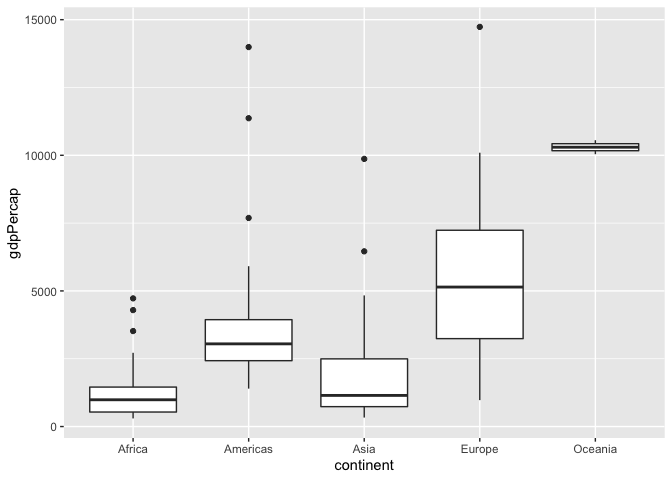
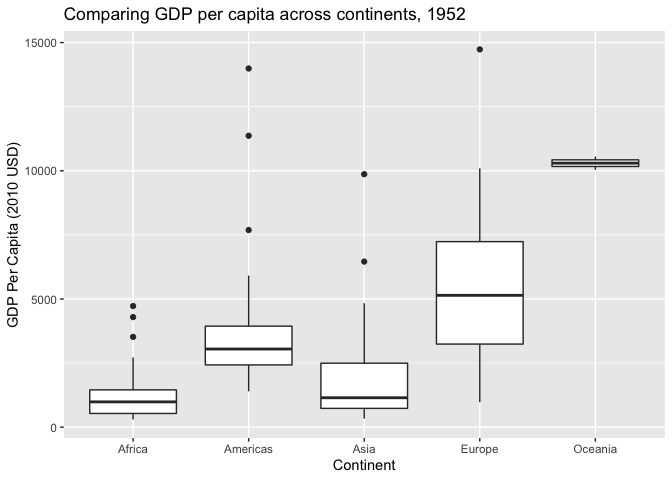
Updated gapminder report

diff --git a/challenges/c04-gapminder-assignment.md b/challenges/c04-gapminder-assignment.md
@@ -229,7 +229,12 @@ gapminder %>%
   filter(year == year_min) %>%
   filter(gdpPercap < 90000) %>% #removing 1 outlier that made it hard to visualize
   ggplot() +
-  geom_boxplot(mapping = aes(continent, gdpPercap))
+  geom_boxplot(mapping = aes(continent, gdpPercap)) +
+  labs(
+  title = "Comparing GDP per capita across continents, 1952",
+  x = "Continent",
+  y = "GDP Per Capita (2010 USD)"
+  )
 ```
 
 ![](c04-gapminder-assignment_files/figure-gfm/q2-task-1.png)<!-- -->
@@ -294,8 +299,6 @@ gapminder %>%
 
 **q3** You should have found at least three outliers in q2. Identify
 those outliers (figure out which countries they are).
-
-*Note*: I realize the reasons for
 
 ``` r
 ## TASK: Identify the outliers from q2
@@ -420,8 +423,9 @@ gapminder %>%
 
 **Observations**
 
-  - Question: Do we see anything weird if we look at outliers from 1952
-    and how their GDP per capita changed over time?
+*Question:* Do we see anything weird if we look at outliers from 1952
+and how their GDP per capita changed over time?
+
   - Kuwait started out extremely high then dropped a lot, maybe because
     this number is per capita and their population grew.
 
@@ -470,10 +474,9 @@ grid.arrange(gdpcapplot, popplot, gdpplot)
 
 ![](c04-gapminder-assignment_files/figure-gfm/q5-task2-1.png)<!-- -->
 
-**Observations**
+**Observations** *Question*: Did Kuwait’s GDP per capita drop so much
+because its population changed a lot?
 
-  - Question: Did Kuwait’s GDP per capita drop so much because its
-    population changed a lot?
   - After multiplying GDP by population to show the total GDP, there is
     still a sharp drop in GDP around 1972, matching the spike and sharp
     drop in GDP per capita.
@@ -513,11 +516,67 @@ gapminder %>%
 
 **Observations**
 
-  - Question: How did the outliers from 1952 change relative to one
-    another over time (not including Kuwait)?
+*Question:* How did the outliers from 1952 change relative to one
+another over time (not including Kuwait)?
+
   - The US and Switzerland were on top in 1952, closely followed by
     Canada and Bahrain. In 2007, the US and Switzerland were still on
     top (with switched order), and Canada was close behind but Bahrain
     was a little farther behind.
   - In general the spread grew, with only a small increase in the
     minimum (Angola). This mimics what we see in the larger dataset.
+
+<!-- end list -->
+
+``` r
+gapminder %>%
+  filter(year == year_max, continent %in% c("Americas")) %>%
+  filter(gdpPercap > 30000)
+```
+
+    ## # A tibble: 2 x 6
+    ##   country       continent  year lifeExp       pop gdpPercap
+    ##   <fct>         <fct>     <int>   <dbl>     <int>     <dbl>
+    ## 1 Canada        Americas   2007    80.7  33390141    36319.
+    ## 2 United States Americas   2007    78.2 301139947    42952.
+
+``` r
+gapminder %>%
+  filter(year == year_max, continent %in% c("Africa")) %>%
+  filter(gdpPercap > 9000)
+```
+
+    ## # A tibble: 6 x 6
+    ##   country           continent  year lifeExp      pop gdpPercap
+    ##   <fct>             <fct>     <int>   <dbl>    <int>     <dbl>
+    ## 1 Botswana          Africa     2007    50.7  1639131    12570.
+    ## 2 Equatorial Guinea Africa     2007    51.6   551201    12154.
+    ## 3 Gabon             Africa     2007    56.7  1454867    13206.
+    ## 4 Libya             Africa     2007    74.0  6036914    12057.
+    ## 5 Mauritius         Africa     2007    72.8  1250882    10957.
+    ## 6 South Africa      Africa     2007    49.3 43997828     9270.
+
+**Observations**
+
+*Question:* Who were the outliers in 2007? How different is that set
+from the outliers in 1952?
+
+*1952 outliers:*
+
+  - Africa: Angola (3,520), Gabon (4,293), South Africa (4,725)
+  - Americas: Canada (11,367), United States (13,990), Venezuela (7,689)
+  - Asia: Bahrain (9,867), Kuwait (108,382), Saudi Arabia (6,459)
+  - Europe: Switzerland (14,734)
+
+*2007 outliers:*
+
+  - Africa: Botswana (12,570), Equatorial Guinea (12,154), Gabon
+    (13,206), Libya (12,057), Mauritius (10,957), South Africa (9,269)
+  - Americas: Canada (36,319), United States (42,952)
+
+*Observations:*
+
+  - The following countries were outliers both in 1952 and 2007: United
+    States, Canada, Gabon, South Africa
+  - In general, there were many fewer outliers in 2007 - instead the
+    maximum and minimum of the boxplots encompassed more countries.
